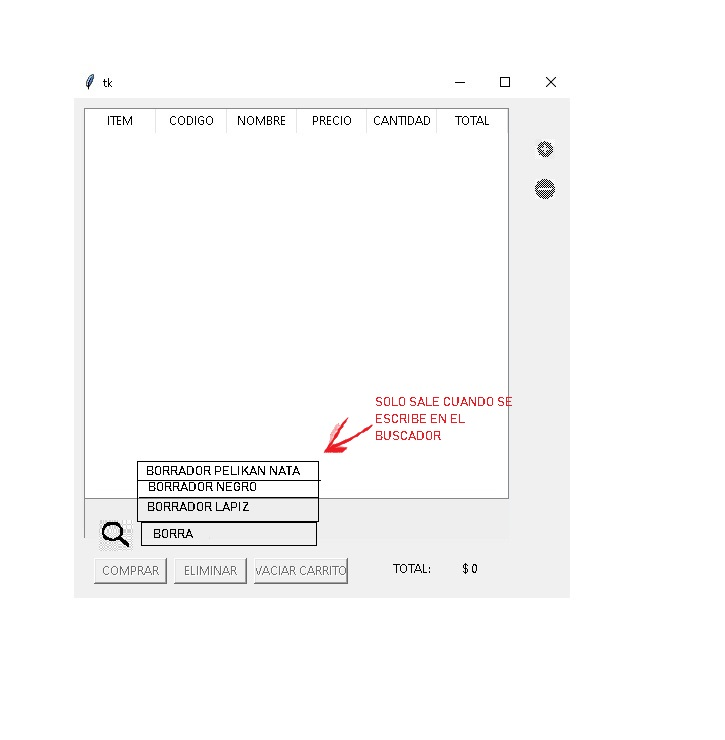
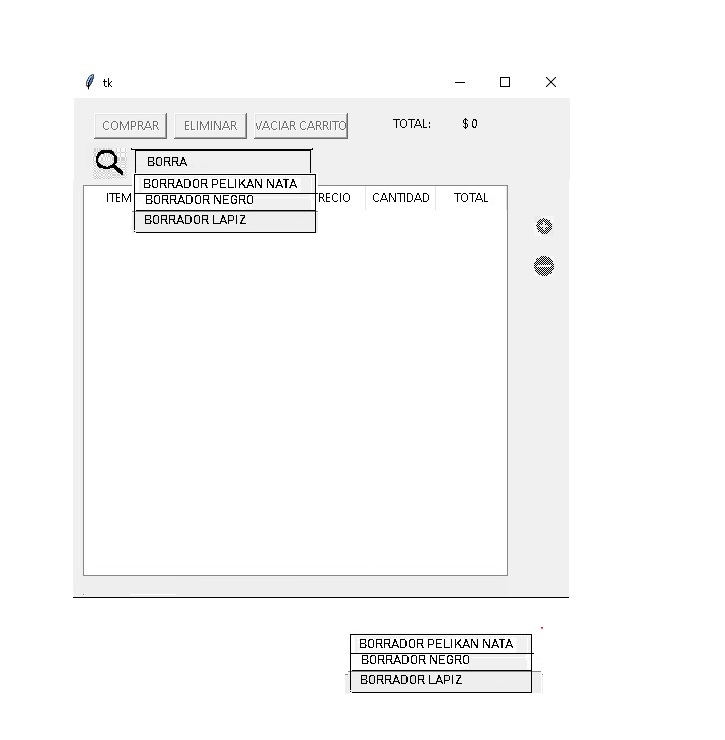
111323 funcionamiento general correcto

diff --git a/interfaces_graficas_v2.py b/interfaces_graficas_v2.py
@@ -18,6 +18,8 @@ import pandas as pd
 import numpy
 import locale
 import re
+
+# SIMBOLOS: ❒▇
 	
 # Asignamos la hora del sistema en hora local
 locale.setlocale(locale.LC_TIME, 'es_ES.utf8')
@@ -1035,12 +1037,15 @@ class InterfazPrincipal:
 		"""
 		INTERFAZ para visualizar y modificar el carrito de compra.
 		"""
-		# ?Como obtengo el color de fondo y pintar el aviso de ese color
-		# ?***Cuando selecciono otra acción general, la lista permanece intacta (¿? Analizar si es bueno o no)
-		# ?*Mejora de diseños
-		# ?*Cambiar el texto por íconos (que sugieran la acción) en los botones 
+		# ?❒❒❒Cuando selecciono otra acción general (cambio de vista), la lista permanece intacta (¿? Analizar si es bueno o no)
+		# ?❒❒❒Mejora de diseños
 
-		# *cada que escriba una letra buscar coincidencia en el inventario (por medio de treevista)
+		# ▇ Cada que escriba una letra buscar coincidencia en el inventario (por medio de treevista)
+		# ?❒ Cambiar el texto por íconos (que sugieran la acción) en los botones 
+		# ?❒ Cuando compro, sea en la general o en vista carrito, es necesario preguntar con cuánto paga
+		# ?❒ Como obtengo el color de fondo (para el aviso de que no hay stock) y pintar el aviso de ese color
+		# ❒ Realizar documentación en funciones
+		# ❒ Analizar la eficiencia de las estructuras de datos en general, necesidad de uso y eficiencia de funciones
 
 	
 
@@ -1048,22 +1053,20 @@ class InterfazPrincipal:
 			"""
 			HABILITACIÓN botones, al seleccionar (manual o automáticamente) desde la interfaz de modificación
 			"""
-			# print(icon)
 
 			# Debe haber al menos un artículo en la lista de compra
 			
 			if treeVista.get_children():
 
-				# seleccionamos el primero del árbol
+				if not treeVista.selection():
+					treeVista.selection_set(treeVista.get_children()[-1])
+
 				codigo = treeVista.selection()[0]
-
-
 			
 				# Debe haber más en stock que en el carrito, de lo contrario desactivamos
 				if validacion[codigo][0] == validacion[codigo][1]:
 					btnAumentar["state"]= "disabled"
 					lblAumentar.config(fg= "red")
-
 
 				else:
 					# ?Porqué tengo que asignar de nuevo el icono al botón
@@ -1082,14 +1085,30 @@ class InterfazPrincipal:
 
 		def salir(event):
 
-			# ?Necesario éste método (recordar que el método global está envuelto en el decorador que abre y cierra la BBDD)
-			# *funcione tanto al seleccionar el boton de salir de la aplicación como con ESC
+			# ?❒Necesario éste método (recordar que el método global está envuelto en el decorador que abre y cierra la BBDD)
+			# ❒funcione tanto al seleccionar el boton de salir de la aplicación como con ESC
 
 			print("chao")
 			conexion.commit()
 			cursor.close()
 			conexion.close()
 			interfazArticulos.destroy()
+
+		# def actualizarVistaInterfaz(*args):
+
+		# 	# ▇ Incluir ésta vista como condicional de la de abajo
+
+		# 	treeVista.delete(*treeVista.get_children())
+
+		# 	# AGREGAR el carrito al listado
+		# 	contador = 1
+		# 	for indice in self.listaCompra.index.tolist():
+		# 		treeVista.insert("","end", iid = indice, values = (contador, indice, self.listaCompra.at[indice,"NOMBRE"],self.listaCompra.at[indice,"PRECIO_UNIT"], self.listaCompra.at[indice,"CANTIDAD_COMPRA"], self.listaCompra.at[indice,"SUB_TOTAL"]))
+		# 		contador += 1
+
+		# 	# ACTUALIZAR el valor total del carrito y la cantidad de articulos (por diversidad)
+		# 	lblTotal["text"] = self.conversiones.puntoMilConSimbolo(self.listaCompra.loc[:,"SUB_TOTAL"].sum())
+		# 	self.cantidadListaCompra.config(text=len(self.listaCompra))
 
 		def actualizarVista(*args):
 
@@ -1115,9 +1134,8 @@ class InterfazPrincipal:
 			lblTotal["text"] = self.conversiones.puntoMilConSimbolo(self.listaCompra.loc[:,"SUB_TOTAL"].sum()) 
 			self.cantidadListaCompra.config(text=len(self.listaCompra))
 
-			# SELECCIONAR (automácticamente) el primer artículo del listado
-			treeVista.selection_set(treeVista.get_children()[0])
-
+			# SELECCIONAR (automácticamente) el primer artículo o si se agregó desde la entrada, entonces ese artículo
+			treeVista.selection_set(treeVista.get_children()[0]) if not args else treeVista.selection_set(treeVista.get_children()[-1])
 
 		def vaciarCarrito():
 
@@ -1198,20 +1216,47 @@ class InterfazPrincipal:
 			interfazArticulos.destroy()
 
 		def validarStock(nombre):
+			
+			# ❒ Ajustar medidas del treeSugerencia (ocupe el mismo ancho que la entrada y distribuir mejor ambas columnas, ademas de la altura)
 
-			...
-			print("buscando coincidencia con ésta busquedad: {}".format(nombre))
-			if nombre in inventario_total.iloc[:, 0].tolist():
-				print(nombre)
+			treeSugerencia.delete(*treeSugerencia.get_children())
+			self.dfSugerencia.drop(self.dfSugerencia.index, inplace=True)
+			# print("buscando coincidencia con ésta busquedad: {}, cantidad: {}, tipo: {}".format(nombre,len(nombre),type(nombre)))
+			if nombre != "":
+				# print("dentro condicional")
+				for llave, valor in inventario_total.iterrows():
+					if re.search(nombre.upper(), valor.at["ARTICULO"]) and (not llave in self.listaCompra.index):
+						self.dfSugerencia = pd.concat([self.dfSugerencia, valor.to_frame().T])
+						treeSugerencia.insert("", "end", iid = llave, values = valor.tolist())
+				if len(self.dfSugerencia) != 0:
+					treeSugerencia.place(relx=0.17, rely=0.16, relwidth=.28, relheight=.15)
+				# print("final condicional")
+
+			if len(self.dfSugerencia) == 0:
+				treeSugerencia.place_forget()
+
+				
 			return True
 
-		
+		@conexiones.decoradorBaseDatos3
+		def seleccionSugerencia(*args, **kwargs):
+			if len(busqueda.get()) != 0:
+				codigoNuevo = treeSugerencia.selection()[0].upper()
+				self.anhadirArticulo(codigoNuevo)
+				kwargs["cursor"].execute("SELECT STOCK FROM INVENTARIO WHERE CODIGO = (?)", (codigoNuevo,))
+				cantidad_stock = kwargs["cursor"].fetchone()[0]
+				# FORMATO: validacion = { "codigo_articulo" : [cantidad_STOCK, cantidad_CARRITO]}
+				validacion.update({codigoNuevo: [cantidad_stock, 1]})
+				actualizarVista("SUGERENCIA")
+				# actualizarVistaInterfaz()
+				entBusqueda.delete(0, "end")
+
 
 		self = args[0]
 		conexion = kwargs["conexion"]
 		cursor = kwargs["cursor"]
 
-		busquedad = StringVar()
+		busqueda = StringVar()
 
 		interfazArticulos = Toplevel()
 		interfazArticulos.bind("<Escape>", lambda event : salir(event))
@@ -1221,13 +1266,26 @@ class InterfazPrincipal:
 		interfazArticulos.geometry("500x500")
 
 		treeVista = ttk.Treeview(interfazArticulos, columns = ("ITEM", "CODIGO", "NOMBRE", "PRECIO", "CANTIDAD", "TOTAL"))
-		treeVista.place(relx=0.02, relwidth=0.85, rely=0.02, relheight= 0.8)
-
-		entBusqueda = Entry(interfazArticulos, width=30, textvariable = busquedad)
-		entBusqueda.place(relx=0.17, rely=0.85)
-		entBusqueda.config(validate="key", validatecommand=(entBusqueda.register(validarStock), "%P"))
-
+		treeVista.place(relx=0.02, relwidth=0.85, rely=0.18, relheight= 0.8)
 		treeVista.bind("<<TreeviewSelect>>", lambda event:seleccionArticulo(event))
+		
+		self.dfSugerencia = pd.DataFrame(columns=("ARTICULO", "MARCA"))
+
+		# CREACION lista de sugerencias
+		treeSugerencia = ttk.Treeview(interfazArticulos, columns= ("ARTICULO", "MARCA"), selectmode=BROWSE, show="tree")
+
+		treeSugerencia.bind("<<TreeviewSelect>>", lambda event:seleccionSugerencia(event))
+
+		treeSugerencia.column("#0", width=0, stretch=NO)
+		treeSugerencia.column("ARTICULO", anchor = "center", width=65, stretch=NO)
+		treeSugerencia.column("MARCA",anchor = "center", width=65, stretch=NO)
+		# treeSugerencia.column("CARACTERISTICA",width=0,anchor = "center", stretch="yes")
+
+		treeSugerencia.heading("ARTICULO", text="ARTICULO")
+		treeSugerencia.heading("MARCA", text="MARCA")
+		# treeSugerenia.heading("CARACTERISTICA", text="CARACTERISTICA")
+
+
 
 		# Label(interfazArticulos, text = "CANTIDAD", width = 9).place(relx=0.88, rely=0.02)
 
@@ -1247,16 +1305,23 @@ class InterfazPrincipal:
 
 		# BOTONES Y LABEL'S
 
+		# iconLupa = Button(interfazArticulos, imaage=icon_lupa, borderwidth=0)
+		iconLupa = Button(interfazArticulos, text="icono de\n lupa", borderwidth=0)
+		iconLupa.place(relx=0.04, rely=0.12)
+
+		entBusqueda = Entry(interfazArticulos, width=30, textvariable = busqueda)
+		entBusqueda.place(relx=0.17, rely=0.12)
+		entBusqueda.config(validate="key", validatecommand=(entBusqueda.register(validarStock), "%P"))
+
 		# *DEBE ser el color del fondo exactamente, y modificarlo en el método <seleccionArticulo>
 		lblAumentar = Label(interfazArticulos, text="NO HAY\n STOCK", fg="gray")
-		lblAumentar.place(relx= 0.88, rely=0.00)
-		
-		# iconLupa = Button(interfazArticulos, image=icon_lupa, borderwidth=0)
-		iconLupa = Button(interfazArticulos, text="icono de\n lupa", borderwidth=0)
-		iconLupa.place(relx=0.04, rely=0.85)
+		lblAumentar.place(relx= 0.88, rely=0.16)
 
 		btnAumentar = Button(interfazArticulos, image=icon_mas, borderwidth=0,command=lambda : modificarCantidad("MAS"))
-		btnAumentar.place(relx=0.92, rely=0.08)
+		btnAumentar.place(relx=0.92, rely=0.24)
+
+		btnDisminuir = Button(interfazArticulos, image = icon_menos, borderwidth=0, command= lambda : modificarCantidad("MENOS"))
+		btnDisminuir.place(relx=0.92, rely=0.32)
 
 		# lblAdvertencia =Label(interfazArticulos, text="NO HAY MÁS STOCK", fg="red")
 		# lblAdvertencia.place(relx=0.88, rely=0.06)
@@ -1265,22 +1330,20 @@ class InterfazPrincipal:
 		# btnAumentar.bind("<Enter>", lambda event : lblAdvertencia.place(relx=0.88, rely=0.06))
 		# btnAumentar.bind("<Leave>", lambda event : lblAdvertencia.place_forget())
 
-		btnDisminuir = Button(interfazArticulos, image = icon_menos, borderwidth=0, command= lambda : modificarCantidad("MENOS"))
-		btnDisminuir.place(relx=0.92, rely=0.16)
 
 		btnComprarCarrito = Button(interfazArticulos, text = "COMPRAR", width= 9, command = comprarInterfaz)
-		btnComprarCarrito.place(relx = 0.04, rely = 0.92)
+		btnComprarCarrito.place(relx = 0.04, rely = 0.03)
 
 		btnEliminarSeleccion = Button(interfazArticulos, text = "ELIMINAR", width= 9, command= eliminarArticulo)
-		btnEliminarSeleccion.place(relx=0.20, rely= 0.92)
+		btnEliminarSeleccion.place(relx=0.20, rely= 0.03)
 
 		btnVaciarCarrito = Button(interfazArticulos, text = "VACIAR CARRITO", width = 12, command = vaciarCarrito)
-		btnVaciarCarrito.place(relx= 0.36, rely = 0.92)
+		btnVaciarCarrito.place(relx= 0.36, rely = 0.03)
 
-		Label(interfazArticulos, text = "TOTAL:", width = 10).place(relx = 0.60, rely = 0.92)
+		Label(interfazArticulos, text = "TOTAL:", width = 10).place(relx = 0.60, rely = 0.03)
 
 		lblTotal = Label(interfazArticulos)
-		lblTotal.place(relx = 0.77, rely = 0.92)
+		lblTotal.place(relx = 0.77, rely = 0.03)
 
 		treeVista.column("#0", width=0, stretch=NO)
 		treeVista.column("ITEM", width = 10, anchor = "center")
@@ -1307,9 +1370,11 @@ class InterfazPrincipal:
 		# ...y la cantidad_CARRITO para trabajar con esos datos en los métodos locales
 
 		# Diccionario con el stock de la BBDD
+		# inventario = {codigo_articulo: stock_inventario}
 		inventario = {}
 		for i in cursor.fetchall():
 			inventario.update({i[0]:i[1]})
+
 
 		# FORMATO: validacion = { "codigo_articulo" : [cantidad_STOCK, cantidad_CARRITO]}
 		validacion = {}
@@ -1323,7 +1388,7 @@ class InterfazPrincipal:
 		cursor.execute("SELECT CODIGO, ARTICULO, MARCA, STOCK FROM INVENTARIO")
 		for i in cursor.fetchall():
 			inventario_total = pd.concat([inventario_total, pd.Series(data = i[1:], index=["ARTICULO", "MARCA", "STOCK"], name=i[0]).to_frame().T], axis=0)
-		print(inventario_total)
+		# print(inventario_total)
 
 
 	# def generarCodigoCliente(self,cursor):

diff --git a/pruebas.py b/pruebas.py
@@ -1,13 +1,16 @@
-import tkinter
+import tkinter as tk
 from tkinter import ttk
 import random
-import pandas
+import pandas as pd
 import sqlite3
 # import time
 import datetime
 import numpy
 import calendar
 import locale
+import re
+from PIL import Image, ImageTk
+
 
 def conexionProyecto():
 	# conexion = sqlite3.connect("C:/Users/Victo/Documents/programacion/proyectos_propios/punto_local_ventas/BASE_DATOS_PRUEBA.db")
@@ -114,8 +117,7 @@ def tkinterTreeview():
 
 	raiz.mainloop()
 
-# tkinterTreeview()
-# import re
+
 
 # texto = "Mi dirección de correo es ejemplo@email.com y otra dirección es otra@example.com"
 # patron = r'\w+@\w+\.\w+'
@@ -123,10 +125,8 @@ def tkinterTreeview():
 # coincidencias = re.findall(patron, texto)
 # for coincidencia in coincidencias:
 #     print(coincidencia)
-print(["a","b","c","d","e"][1:])
 # tkinterTreeview()
-# import tkinter as tk
-# from tkinter import ttk
+
 
 # def identificar_elemento(event):
 #     item_id = tree.identify("item", event.x, event.y)
@@ -155,10 +155,6 @@ print(["a","b","c","d","e"][1:])
 # root.mainloop()
 
 
-import tkinter as tk
-import pandas as pd
-from tkinter import ttk
-
 def actualizar_celda(event):
     # Obtener la fila y la columna de la celda editada
     fila, columna = treeview.index(treeview.focus()), treeview.identify_column(event.x)
@@ -185,32 +181,32 @@ def funcionLambda():
 
 def pruebaDataFrame():
 
-	nombres = ["victor", "idaly", "jeffrey"]
-	apellidos = ["ruiz", "lopez", "quiñonez"]
-	edades = [25, 64, 35]
-	residencias = ["palmira", "cali", "pereira"]
+	nombres = ["victor", "idaly", "jeffrey", "hector"]
+	apellidos = ["ruiz", "lopez", "quiñonez", "perea"]
+	edades = [25, 64, 35, 54]
+	residencias = ["palmira", "cali", "pereira", "quiddo"]
 
-	df1 = pandas.DataFrame(columns = ["nombre", "apellido", "edad", "residencia"])
-	df2 = pandas.DataFrame(data =[[nombres[i], apellidos[i], edades[i], residencias[i]] for i in range(len(nombres))],columns=("nombre", "apellido", "edad", "residencia"), index=[f"Elemento {i}" for i in range(1,len(nombres)+1)])
+	df1 = pd.DataFrame(columns = ["nombre", "apellido", "edad", "residencia"])
+	df2 = pd.DataFrame(data =[[nombres[i], apellidos[i], edades[i], residencias[i]] for i in range(len(nombres))],columns=("nombre", "apellido", "edad", "residencia"), index=[f"Elemento {i}" for i in range(1,len(nombres)+1)])
 
-	df1 = pandas.concat([df1, df2])
-	for llave, valor in df2.iterrows():
-		valor2 = valor.tolist()
-		print(valor2)
-		print(type(valor2))
+	df1 = pd.concat([df1, df2])
+
+	for i, j in df1.iterrows():
+		if re.search("ct", j.at["nombre"]):
+			print(i,j, sep="\n++++++\n", end="\n\n")
+
 		
-	print(df1)
-	if "nombre" in df1.columns:
-		df1 = df1.drop("nombre", axis=1)
-	print(df1)
-	if "pruebas" in df1.columns:
-		print("entramos en el condicional")
+	# print(df1)
+	# if "nombre" in df1.columns:
+	# 	df1 = df1.drop("nombre", axis=1)
+	# print(df1)
+	# if "pruebas" in df1.columns:
+	# 	print("entramos en el condicional")
 	# print(df2.index)	
 
 # pruebaDataFrame()
 
-import tkinter as tk
-from PIL import Image, ImageTk
+
 
 class MiApp(tk.Tk):
     def __init__(self):
@@ -362,8 +358,23 @@ def extractoBancolombia():
 			# print(tipo, "--->>",type(tipo))
 			suma+=float(i.replace(".00", "").replace(",", ""))
 
-# diccionario = {"letra":["a", "b", "c"], "codigo":["pri", "herma", "tio"]}
-# # print(diccionario)
-# a = diccionario.pop("letras", "equivocado")
-# print(diccionario)
-# print(a)
+
+import tkinter as tk
+from tkinter import ttk
+
+def actualizar_treeview():
+    # Borrar todas las filas existentes en el Treeview
+    for row in tree.get_children():
+        tree.delete(row)
+
+    # Insertar las filas actualizadas
+    for elemento in elementos_lista:
+        tree.insert("", "end", values=(elemento,))
+
+# Función para manejar eventos de modificación de la lista
+def modificar_lista():
+    # Aquí puedes modificar la lista según las necesidades del usuario
+    # Por ejemplo, agregar o eliminar elementos
+    elementos_lista.append("Nuevo Elemento")
+    actualizar_treeview()
+
